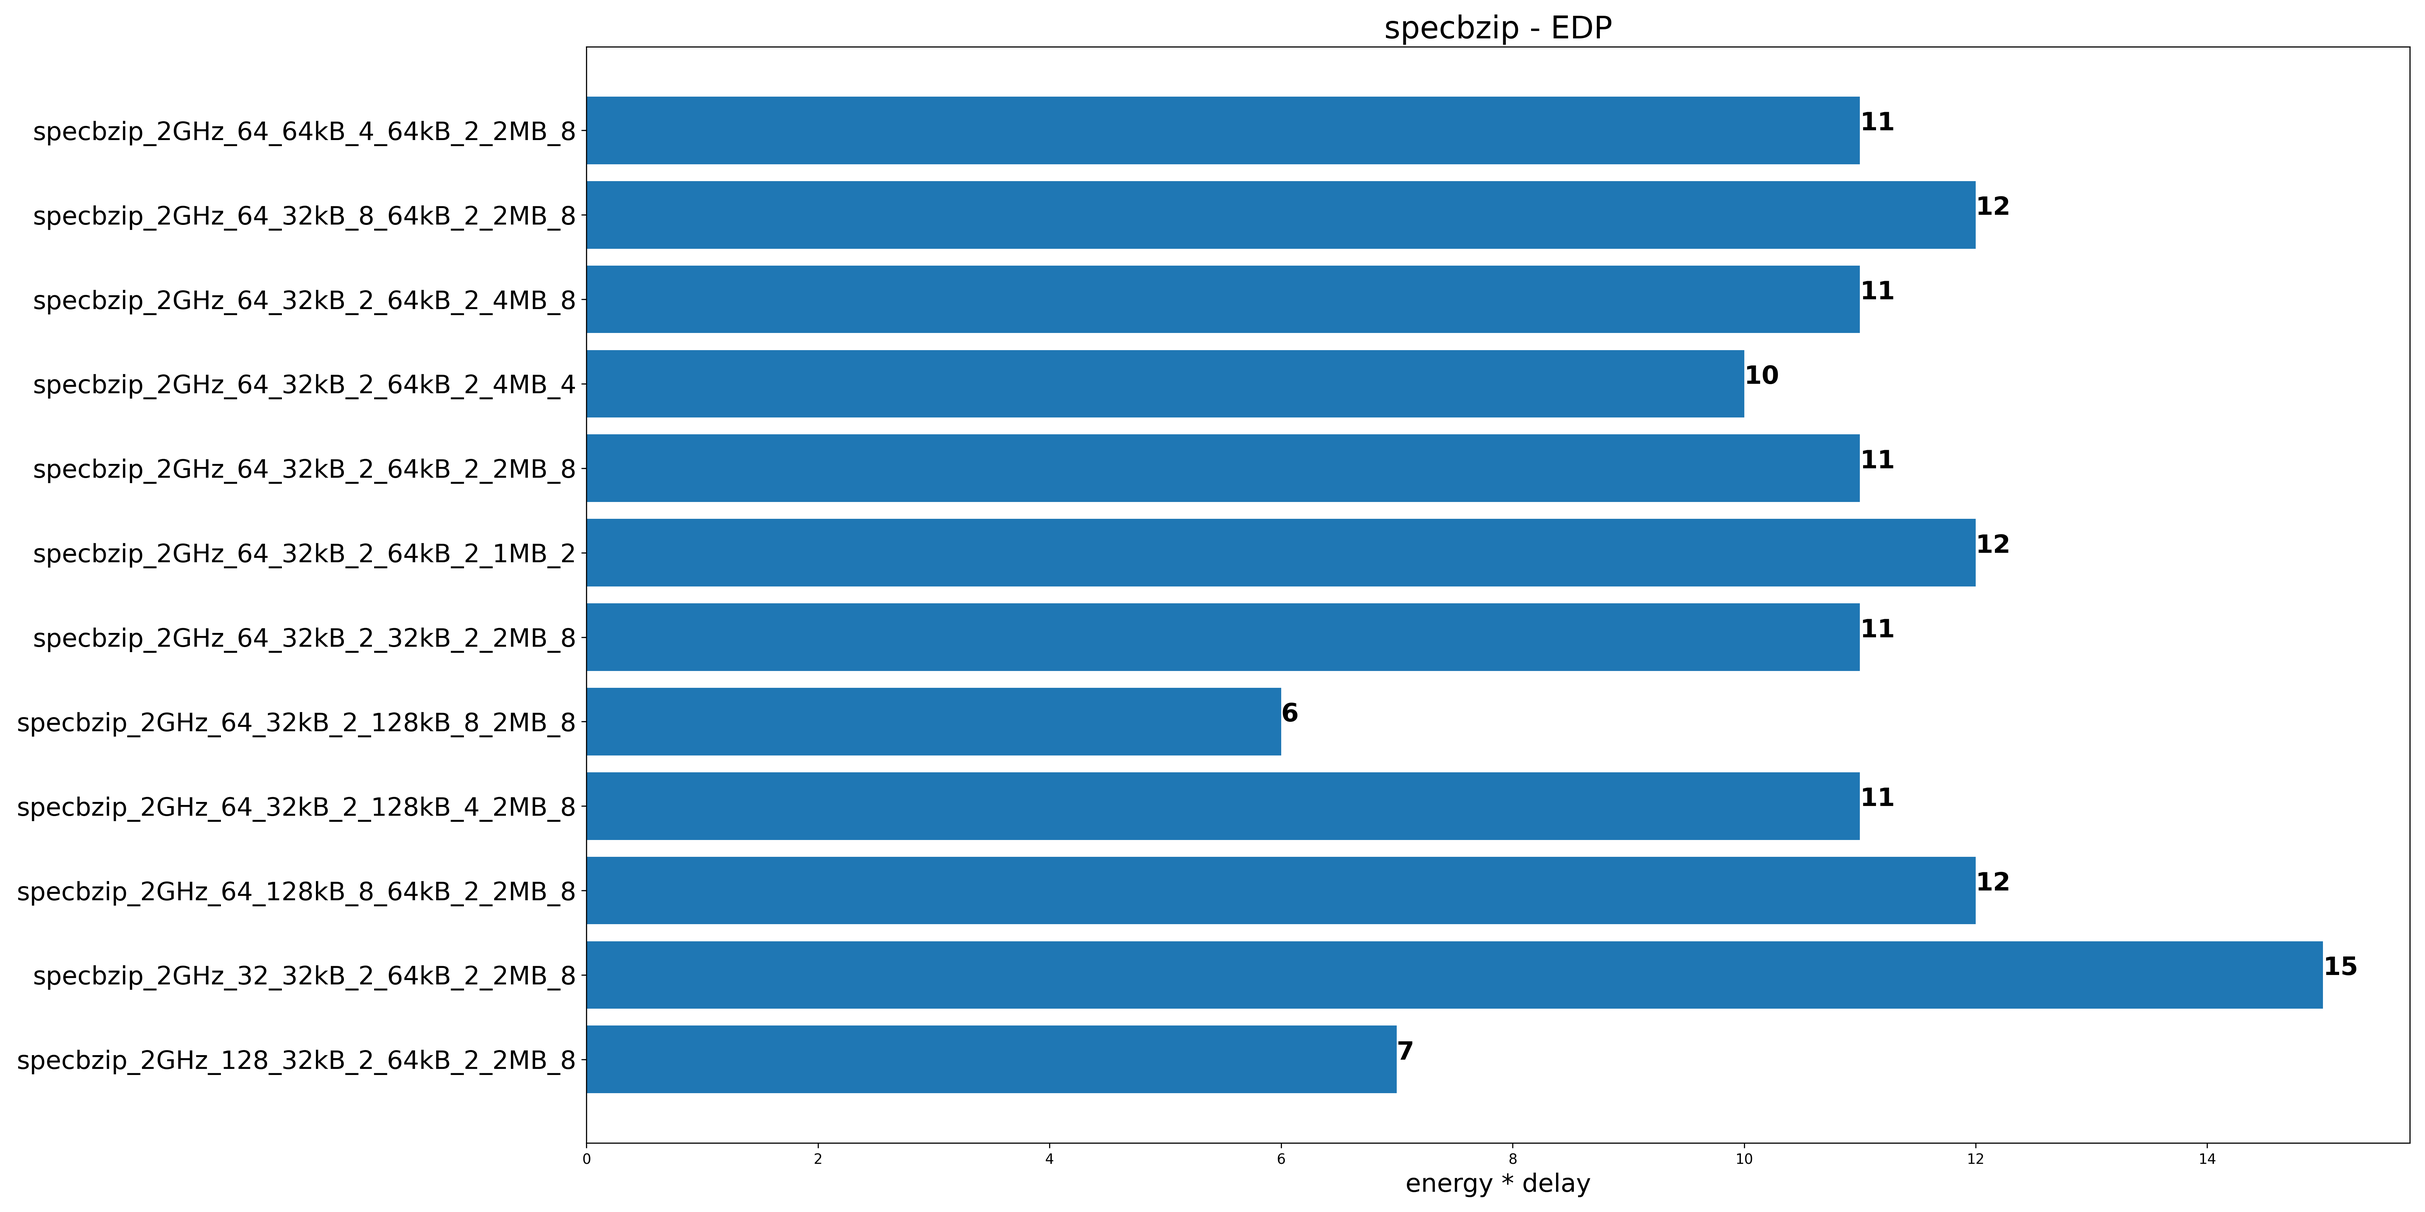
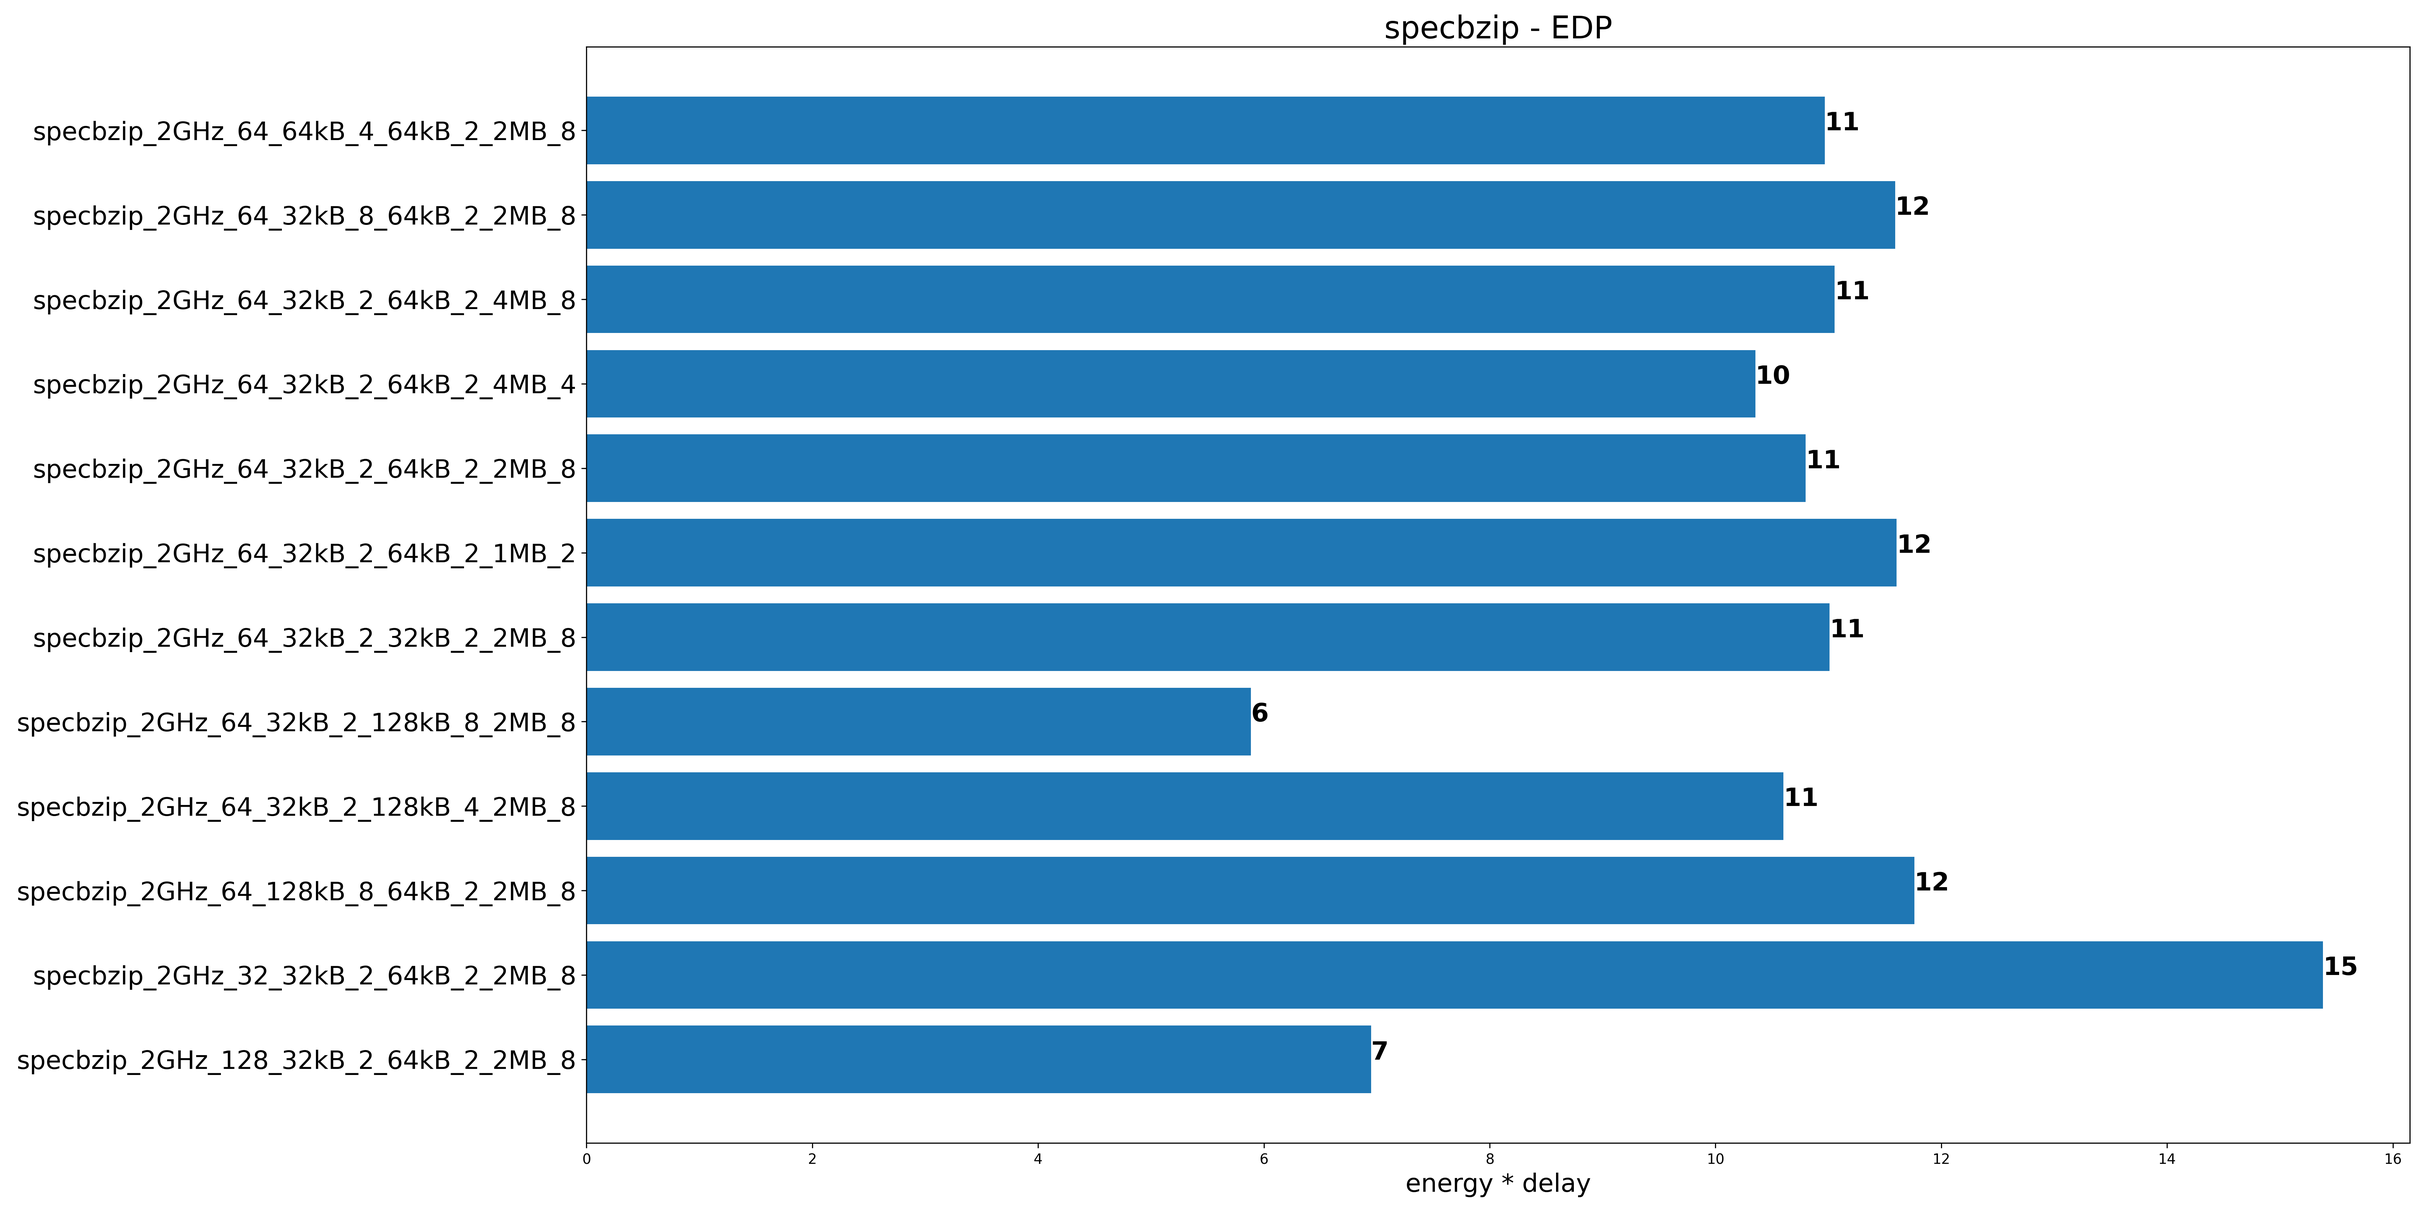
final

diff --git a/assignment3/graphs/step2.py b/assignment3/graphs/step2.py
@@ -31,8 +31,8 @@ if __name__ == "__main__":
     for BNAME in benchmarks_names:
         benchmark_id = []
         edp = []
-        eda = []
         energys = []
+        peaks = []
         print(BNAME)
         for benchmark in data:
             bid: str = benchmark['benchmark']
@@ -43,13 +43,14 @@ if __name__ == "__main__":
                 energy = benchmark['energy']
                 runtime = benchmark['runtime']
                 area = benchmark['area']
-                edp.append(round(energy*runtime))
-                eda.append(round(energy*runtime*area))
+                peak_power = benchmark['peak_power']
                 energys.append(energy)
+                peaks.append(peak_power)
+                edp.append(energy*runtime)
 
         bar_chart(benchmark_id, edp, BNAME + ' - EDP',
                   'energy * delay', 'edp')
-        bar_chart(benchmark_id, eda, BNAME + ' - EDA',
-                  'energy * delay * area', 'eda')
         bar_chart(benchmark_id, energys, BNAME + ' - Energy (mJ)',
                   'energy', 'energy')
+        bar_chart(benchmark_id, peaks, BNAME + ' - Peak Power (W)',
+                  'peak power', 'peak_power')

diff --git a/assignment3/README.md b/assignment3/README.md
@@ -1,0 +1,165 @@
+# Ομάδα 3
+
+**Στεφανίδης Ιωάννης, ΑΕΜ: 9587**
+
+**Τοπαλίδης Στυλιανός, ΑΕΜ: 9613**
+
+# Assignment 3
+
+## Βήμα 1
+
+### Ερώτημα 1
+
+#### Dynamic Power
+
+Η έννοια dynamic power αφορά στην ωφέλιμη ισχύ που καταναλώνεται κατα τη λειτουργία
+κυκλώματος αποτελούμενου από ένα ή περισσότερα τρανζίστορ και αποτελεί τυπικά το 90% της
+συνολικής παραγόμενης ισχύος [1]. Στην περίπτωση ενός σύνθετου κυκλώματος, όπως ο
+επεξεργαστής, το dynamic power αφορά στη συνολική ισχύ που καταναλώνει.
+
+#### Leakage Power
+
+Το leakage αφορά στην μη ωφέλιμη ισχύ που παράγεται κατα τη ροή ρεύματος μέσω των
+φορτισμένων πυκνωτών των τρανζίστορ όταν αυτά δε βρίσκονται σε κατάσταση λειτουργίας [2].
+Πρόκειται για την ισχύ απωλειών του επεξεργαστή όταν αυτός δεν εκτελεί κάποια εργασία ( π.χ.
+όταν περιμένει να διαβάσει δεδομένα από τη μνήμη) .
+
+#### Διαφορά των δύο
+
+Στο πλαίσιο των προσομοιούμενων χαρακτηριστικών του επεξεργαστή , η διαφορά τους είναι οτι
+η μεν dynamic power είναι η επιθυμητή ισχύς ,υπο την έννοια οτι χρησιμοποιείται για τη
+λειτουργία του επεξεργαστή, η δε leakage power είναι η ισχύς απωλειών.
+
+#### Ποιό από τα παραπάνω δύο είδη ισχυών αλλάζουν με την εκτέλεση διαφορετικών προγραμμάτων;
+
+Από [1] σελ.8 προκύπτει οτι η dynamic power εξαρτάται από τη συχνότητα λειτουργίας των
+τρανζίστορ του επεξεργαστή. Προγράμματα με μεγάλες υπολογιστικές απαιτήσεις προκαλούν
+και υψηλές συχνότητες λειτουργίας των τρανζίστορ και άρα υψηλά dynamic power.
+
+Για παράδειγμα, προγράμματα με πολλές add, sub, branch κοκ απαιτούν περισσότερο χρόνο
+επεξεργασίας και αφήνουν πιο σπάνια τον επεξεργαστή σε αδράνεια αυξάνοντας το dynamic power.
+Αντίθετα, ένα πρόγραμμα με περισσότερες load και store περνά τον έλεγχο στη μνήμη και αφήνει
+τον επεξεργαστή πιο αδρανή μειώνοντας έτσι το dynamic power.
+
+Από την άλλη, η leakage power δεν εξαράται από τη συχνότητα λειτουργίας των τρανζίστορ
+δηλαδή από το υπολογιστικό φορτίο. Έτσι παραμάνει η ίδια για κάθε πρόγραμμα που εκτελείται.
+
+#### Πώς επηρεάζει ο χρόνος εκτέλεσης του προγράμματος την καταναλισκόμενη ισχύ;
+
+Ο χρόνος εκτέλεσης ενός προγράμματος δεν παίζει ρόλο στην ισχύ σε καμία περίπτωση (ούτε
+στο leakage power ούτε στο dynamic power).
+
+Για να γίνει αυτό κατανοητό αρκεί να αντιπαραβάλουμε την εκτέλεση ενός προγράμματος Α με
+την εκτέλεση του ίδιου προγράμματος Α δύο φορές συνεχόμενα. Επειδή σε κάθε χρονική στιγμή
+εκτελείται το ίδιο πρόγραμμα οι δύο περιπτώσεις εκτελέσεων θα έχουν την ίδια ισχύ άσχετα αν η
+δεύτερη περίπτωση εκτελείται για μεγαλύτερο χρόνο.
+
+Αυτό που αλλάζει είναι η ενέργεια που παράγεται και για το Α είναι σίγουρα μικρότερη από το
+
+### Ερώτημα 2
+
+#### Μπορεί ο επεξεργαστής 40W να εξασφαλίζει μεγαλύτερη διάρκεια ζωής μπατατίας από αυτόν με 4W;
+
+Για να ελέγξουμε αν ο επεξεργαστής 40W (έστω 1) μπορεί να οδηγεί σε μεγαλύτερη διάρκεια
+ζωής μπαταρίας από τον 4W (έστω 2) θα τους τεστάρουμε υπο το ίδιο υπολογιστικό φορτίο. Έστω
+λοιπόν οτι ο 1 απαιτεί χρόνο Δt1 για την εκτέλεση ενός προγράμματος ενώ ο 2 απαιτεί Δt2 για το
+ίδιο πρόγραμμα. Τότε η κατανάλωση (ενέργειας) της μπαταρίας σε κάθε περίπτωση θα είναι θα
+είναι:
+
+```
+Εμπατ1=P1*Δt1
+Εμπατ2=P2*Δt2
+```
+
+για τον 1 και τον 2 αντίστοιχα.
+
+Θεωρούμε οτι P1 και P2 περιλαμβάνουν την ολική
+ισχύ που δίνεται από τη μπαταρία και επομένως περιλαμβάνει τόσο τη χρήσιμη (dynamic) όσο και
+την ισχύ απωλειών (leakage).
+Ο 1 θα έχει μικρότερη κατανάλωση ενέργειας και άρα μεγαλύτερη διάρκεια ζωής μπαταρίας αν
+
+```
+Εμπατ1 < Εμπατ2 =>  P1*Δt1  < P2*Δt2  => 40*Δt1  < 4*Δt2  => Δt1  < Δt2  /10
+```
+
+δηλαδή αρκεί ο επεξεργαστής 1 να εκτελεί το ίδιο πρόγραμμα περισσότερο από 10 φορές πιο
+γρήγορα έτσι ώστε να εξασφαλίζει μικρότερη ενεργειακή κατανάλωση.
+
+Επομένως, το McPAT χρειάζεται επιπλέον και πληροφορίες για το χρόνο εκτέλεσης του
+προγράμματος που θα χρησιμοποιηθεί για τη σύγκριση . Αυτές τις πληροφορίες μπορεί να τις δώσει
+ένας εξομοιωτής επεξεργαστών που είναι και απαιτούμενο συνοδευτικό εργαλείο του McPAT[3] .
+“2Α” εξαιτιας του μικρότερου χρόνου εκτέλεσης.
+
+### Ερώτημα 3
+
+#### Xeon
+
+```
+Runtime Dynamic = 72.9199 W
+Total leakage = 36.8319 W
+PXeon  = Runtime Dynamic +Total leakage = 109.7518W
+```
+
+#### ARM A9 2GHz
+
+```
+Runtime Dynamic =  2.96053 W
+Total leakage  = 0.108687W
+PARΜ =  Runtime Dynamic +Total leakage = 3.0692W
+```
+
+άρα `PXeon/PARM = 109.7518 / 3.0692 ~ 35.75.`<br>
+Από την εκφώνηση θεωρούμε, ακόμη, οτι για την εκτέλεση του ίδιου προγράμματος
+ΔtARM=40ΔtXeon (ο Xeon είναι 40 φορές πιο γρήγορος ) . Από αυτό και την ανάλυση του
+ερωτήματος 2 προκύπτει για την ενεργειακή κατανάλωση :<br>
+`EXeon = PXeon * ΔtXeon` και `EARM= PARΜ* ΔtARΜ`
+άρα με `EXeon = PXeon * ΔtXeon = 35.75 PARΜ * 1/40 = 0.894 EARM` δηλαδή ο Xeon είναι πιο
+ενεργειακά αποδοτικός μόνο όσον αφορά στην εκτέλεση του προγράμματος.<br>
+Ωστόσο, δεδομένου οτι δεν απενεργοποιείται ο Xeon μετά την εκτέλεση του προγράμματος
+σίγουρα δαπανά περισσότερη ενέργεια και άρα μακροπρόθεσμα είναι λιγότερο αποδοτικός.
+
+## Βήμα 2
+
+### Ερώτημα 1
+
+![](./graphs/specbzip_edp.png)
+![](./graphs/spechmmer_edp.png)
+![](./graphs/specmcf_edp.png)
+![](./graphs/speclbm_edp.png)
+![](./graphs/specsjeng_edp.png)
+
+#### Παρατηρήσεις
+
+1. Αύξηση της data cache προκαλεί μείωση του EDP
+2. Αύξηση της instruction cache προκαλεί αμελητέα μείωση του EDP (η διαφορά
+   φαίνεται
+   μόνο στα speclbm και specjeng) (γραμμές 2η και 3η απ’ το τέλος)
+3. Μείωση της L2 cache προκαλεί μικρή μείωση του EDP (γραμμές 3η και 5η)
+4. Αύξηση της cache line size προκαλεί μείωση του EDP (γραμμές 8η και 9η)
+   Ιδιαίτερη σημασία στα specjeng και speclbm παίζει το cache line size (βλ.
+   τελευταίες
+   γραμμές)
+
+### Ερώτημα 2
+
+![](./graphs/specbzip_peak_power.png)
+![](./graphs/spechmmer_peak_power.png)
+![](./graphs/specmcf_peak_power.png)
+![](./graphs/speclbm_peak_power.png)
+![](./graphs/specsjeng_peak_power.png)
+
+### Σχόλια σχετικά με σφάλματα των αποτελεσμάτων
+
+Κάποια αίτια σφαλμάτων είναι:
+
+- [4] η μη ακρίβεια των αποτελεσμάτων εξαιτίας των εγγενών σφαλμάτων του McPAT να
+  προσομοιώσει απόλυτα τα χαρακτηριστικά των επεξεργαστών.
+- η χρήση από το ένα πρόγραμμα προσομοίωσης δεδομένων από το άλλο πρόγραμμα
+  προσομοίωσης. Έτσι, πιθανά σφάλματα του ενός προγράμματος προσομοίωσης διαδίδονται
+
+## Πηγές
+
+[1](https://www.google.com/books/edition/Low_Power_Design_Methodologies/9IzuBwAAQBAJ?gbpv=1) σελ.4, 273
+[2](<https://en.wikipedia.org/wiki/Leakage_(electronics)#Between_electronic_assemblies_and_circuits>)
+[3](https://www.hpl.hp.com/research/mcpat/micro09.pdf) σελ.1 Abstract
+[4](https://www.hpl.hp.com/research/mcpat/micro09.pdf) figure 3
